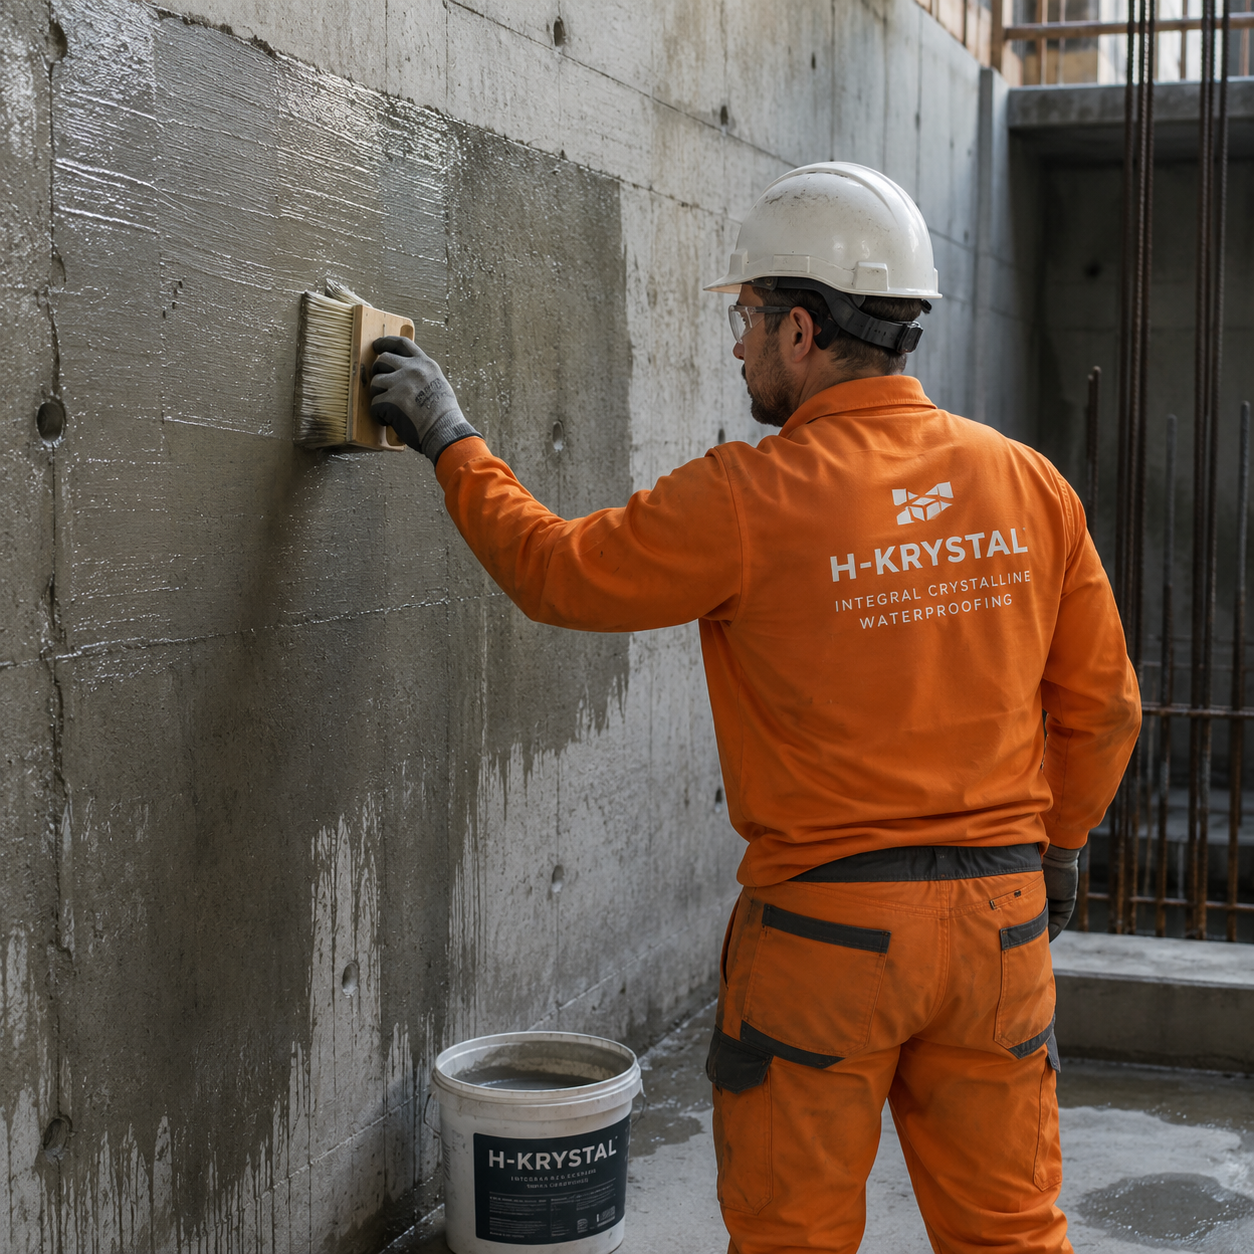
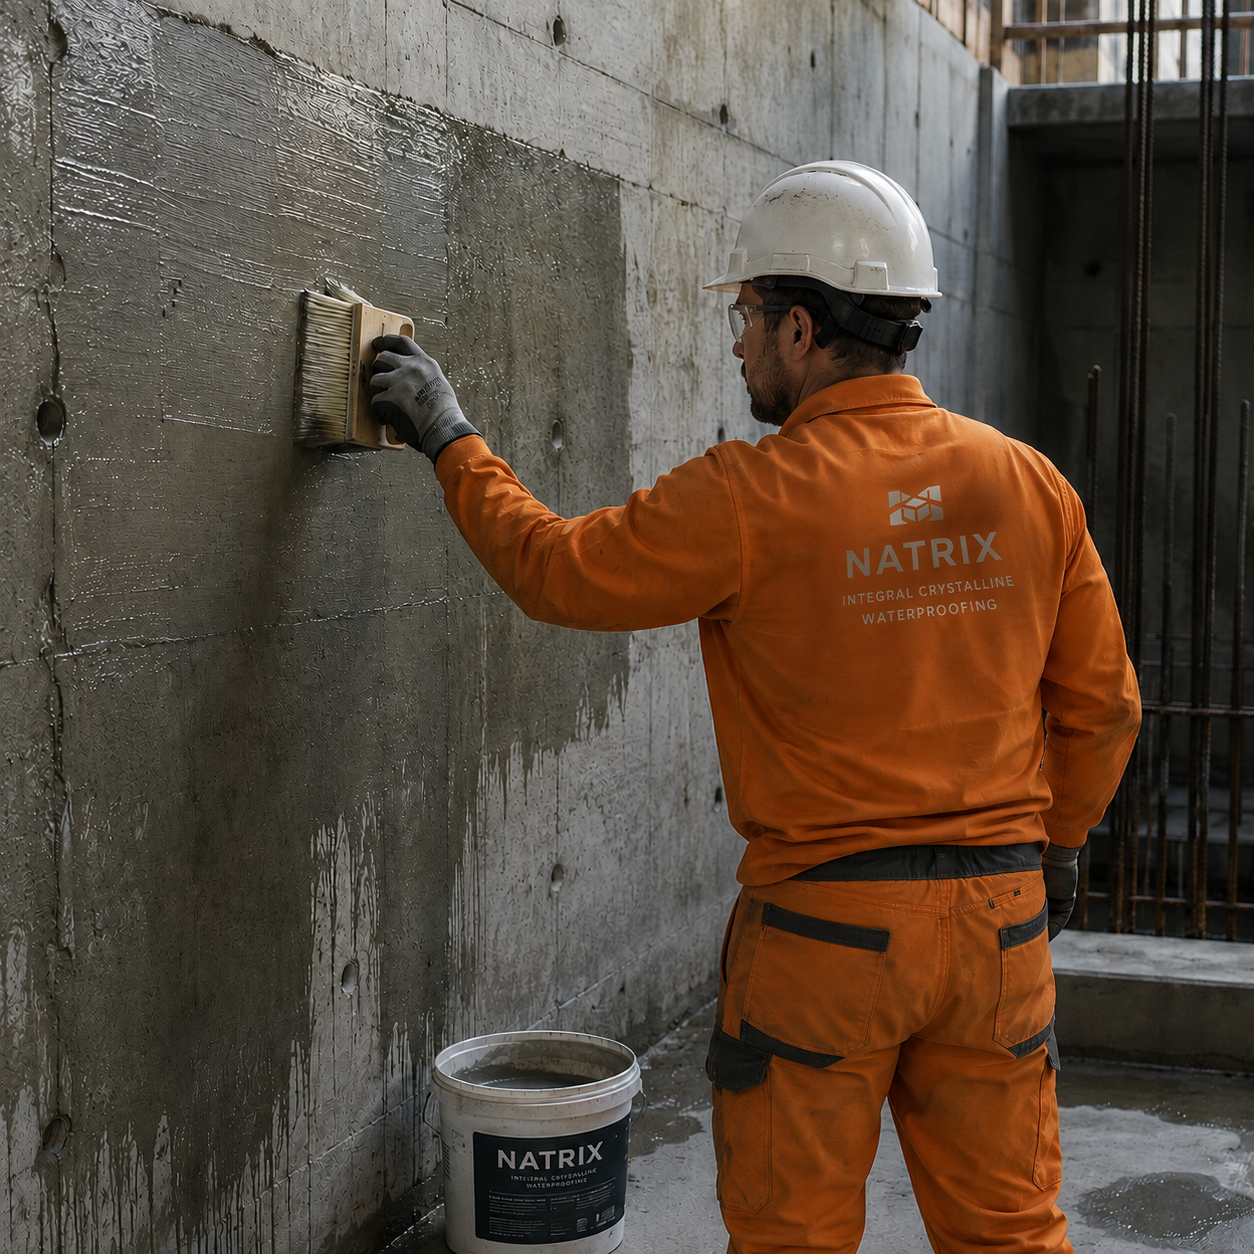
Apply final website content and image updates

diff --git a/src/layouts/components/ReferralText.tsx b/src/layouts/components/ReferralText.tsx
@@ -6,19 +6,20 @@ const ReferralText = () => {
   return (
     <motion.p
       initial={{ x: "100vw", opacity: 0 }}
-        animate={{ x: 0, opacity: 1 }}
-        transition={{
+      animate={{ x: 0, opacity: 1 }}
+      transition={{
         delay: 0.8,
         duration: 1.2,
         ease: [0.16, 1, 0.3, 1],
-        }}
+      }}
       className="
-  absolute z-30 hidden lg:block
-  left-[48%] top-[74%]
-  max-w-[850px]
-  text-white text-2xl xl:text-[36px]
-   leading-snug
-"
+        absolute z-30
+        left-6 right-6 top-[68%]
+        lg:left-[48%] lg:right-auto lg:top-[74%]
+        max-w-[850px]
+        text-white text-xl sm:text-xl lg:text-2xl xl:text-[36px]
+        leading-snug
+      "
     >
       Pomozte nám růst a získejte odměnu za každé úspěšné doporučení.
     </motion.p>

diff --git a/src/content/krystalizace/-index.md b/src/content/krystalizace/-index.md
@@ -11,7 +11,7 @@ section_title: "Krystalizace produktu"
 section_text:
   - "Krystalizace betonu představuje moderní technologii trvalé hydroizolační ochrany, která využívá chemickou reakci mezi aktivními složkami krystalizačního materiálu, volným hydroxidem vápenatým, vodou a dalšími produkty hydratace cementu. Výsledkem této reakce je vznik nerozpustných krystalických struktur, které pronikají hluboko do betonu a postupně vyplňují jeho póry, kapiláry a mikrotrhliny."
 
-  - "Na rozdíl od běžných povrchových hydroizolačních systémů nevytváří krystalizační technologie pouze ochrannou vrstvu na povrchu konstrukce. Stává se nedílnou součástí samotné betonové hmoty a vytváří v ní trvalou vnitřní ochranu proti pronikání vody, vlhkosti a dalších agresivních látek. Krystalická struktura je pevně spojena s betonem, neodlupuje se, není náchylná k mechanickému poškození a zachovává svou funkčnost po celou dobu životnosti betonové konstrukce."
+  - "Na rozdíl od běžných povrchových hydroizolačních systémů nevytváří krystalizační technologie pouze ochrannou vrstvu na povrchu konstrukce. Stává se nedílnou součástí samotné betonové hmoty a vytváří v ní trvalou vnitřní ochranu proti pronikání vody, vlhkosti a dalším agresivním látkám. Krystalická struktura je pevně spojena s betonem, neodlupuje se, není náchylná k mechanickému poškození a zachovává svou funkčnost po celou dobu životnosti betonové konstrukce."
 
   - "Výsledkem je beton s výrazně nižší propustností vody, vyšší odolností proti mrazu, chemickým vlivům, pronikání chloridů a korozi ocelové výztuže. Krystalizační technologie tak významně prodlužuje životnost betonových konstrukcí a snižuje náklady na jejich údržbu a opravy."
 
